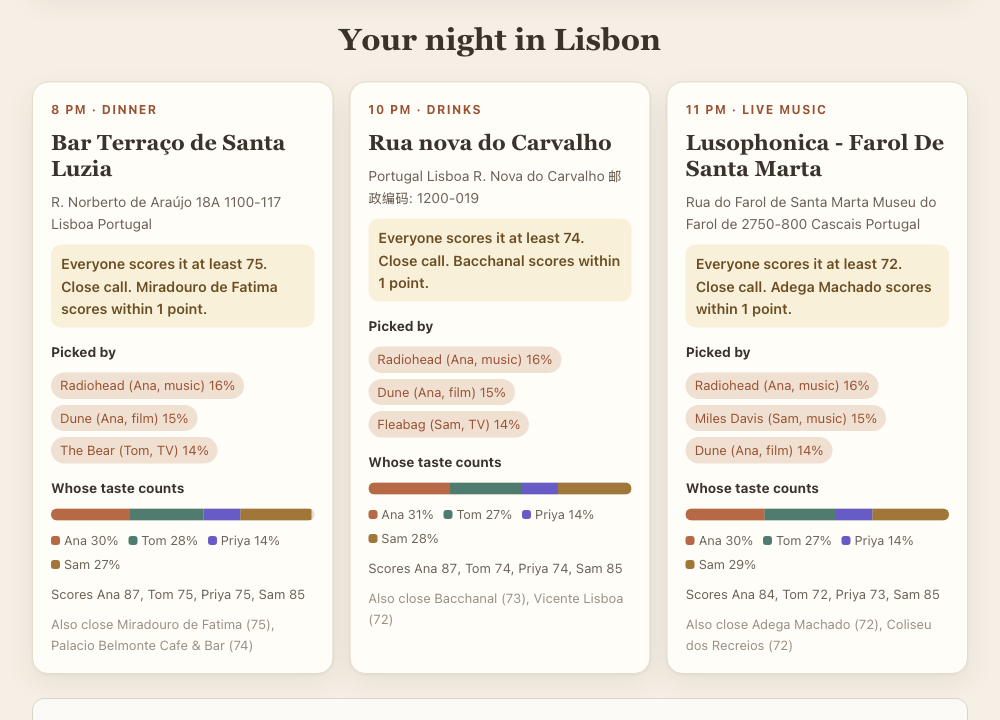
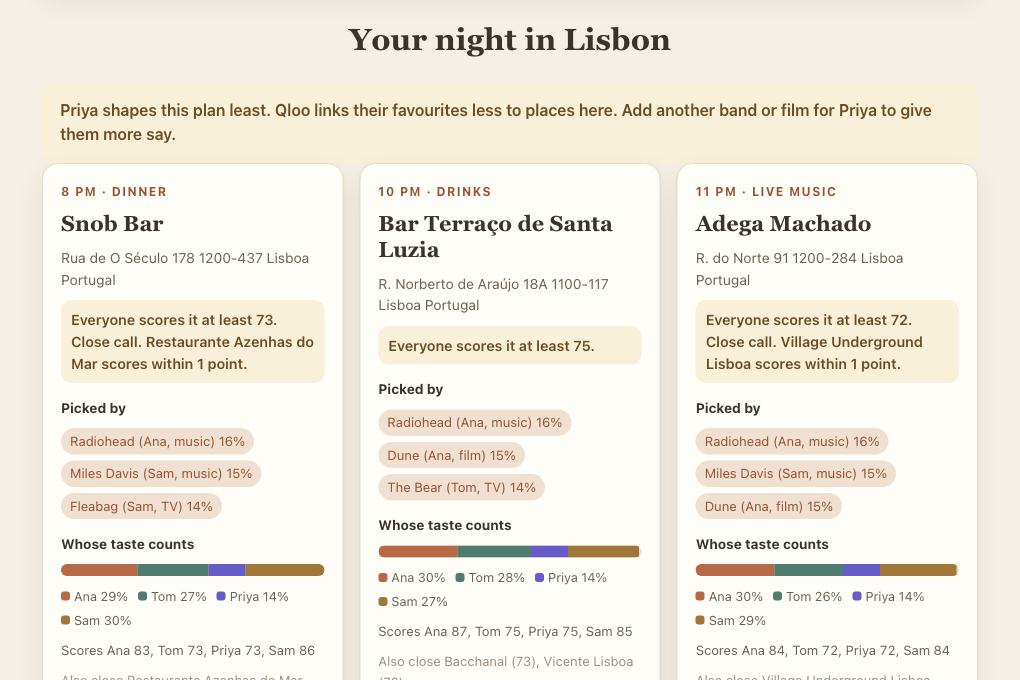
Show the call trace for repeated plans, new screenshot and demo video

diff --git a/web/night.js b/web/night.js
@@ -164,9 +164,9 @@ function render(data) {
   const work = make("details", "qloo-work");
   work.open = true;
   work.append(make("summary", "section-label", "Show Qloo's work"));
-  work.append(make("p", "trace-line", data.cached
-    ? "Same plan as a request in the last 30 minutes, so no new Qloo calls were made."
-    : `${t.searches + t.insights} live Qloo calls in ${(t.ms / 1000).toFixed(1)} s. ${t.searches} searches matched the favourites. ${t.insights} Insights calls. Per stop, one group call with explainability and one call per friend.`));
+  work.append(make("p", "trace-line",
+    `${t.searches + t.insights} live Qloo calls in ${(t.ms / 1000).toFixed(1)} s. ${t.searches} searches matched the favourites. ${t.insights} Insights calls. Per stop, one group call with explainability and one call per friend.` +
+    (data.cached ? " This plan was made in the last 30 minutes and is shown again without new calls." : "")));
   const matched = make("ul", "matched-list");
   for (const m of data.members) {
     const li = make("li", "matched-item");

diff --git a/README.md b/README.md
@@ -5,7 +5,7 @@ For friends who argue about where to go. Everyone names a few bands, films, show
 Qloo's cross-domain taste graph turns that shared taste into dinner, drinks and live music in your city.
 Each stop names the favourites that picked it and shows how much each friend's taste counts.
 
-[**Open the live app**](https://common-ground.lipmichal.workers.dev) · [Demo video (85 s)](https://youtu.be/Nhzf27ZEGS4) · [MCP endpoint](https://common-ground.lipmichal.workers.dev/mcp) · [Live mode check](https://common-ground.lipmichal.workers.dev/health)
+[**Open the live app**](https://common-ground.lipmichal.workers.dev) · [Demo video (85 s)](https://youtu.be/npgyKhITMVI) · [MCP endpoint](https://common-ground.lipmichal.workers.dev/mcp) · [Live mode check](https://common-ground.lipmichal.workers.dev/health)
 
 ![Four friends list music, films, TV and books. Qloo plans dinner, drinks and live music in Lisbon, and each stop names the favourites behind it](docs/screenshot-night-plan.png)
 
